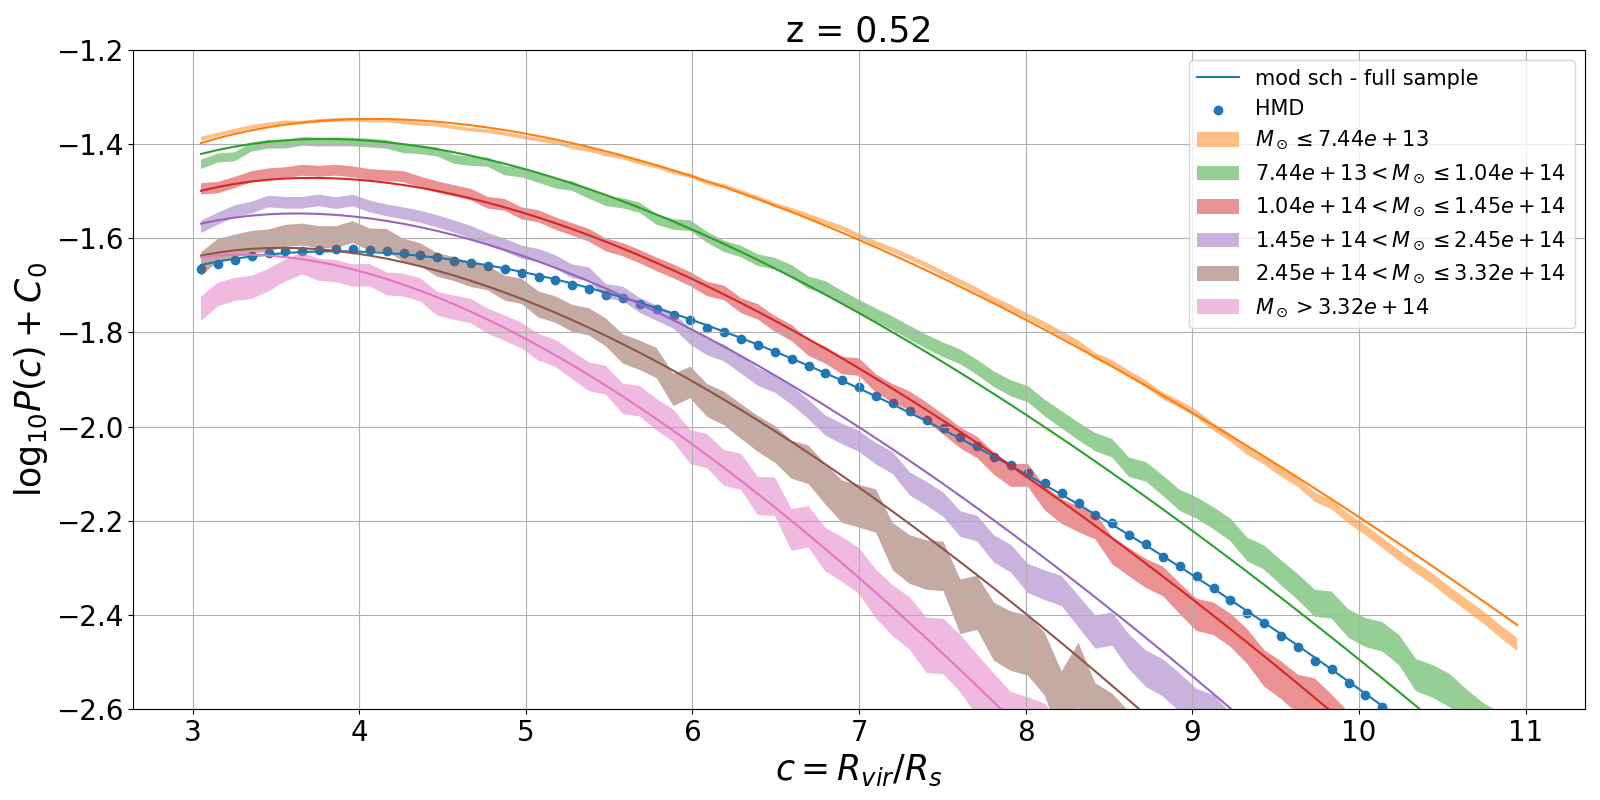
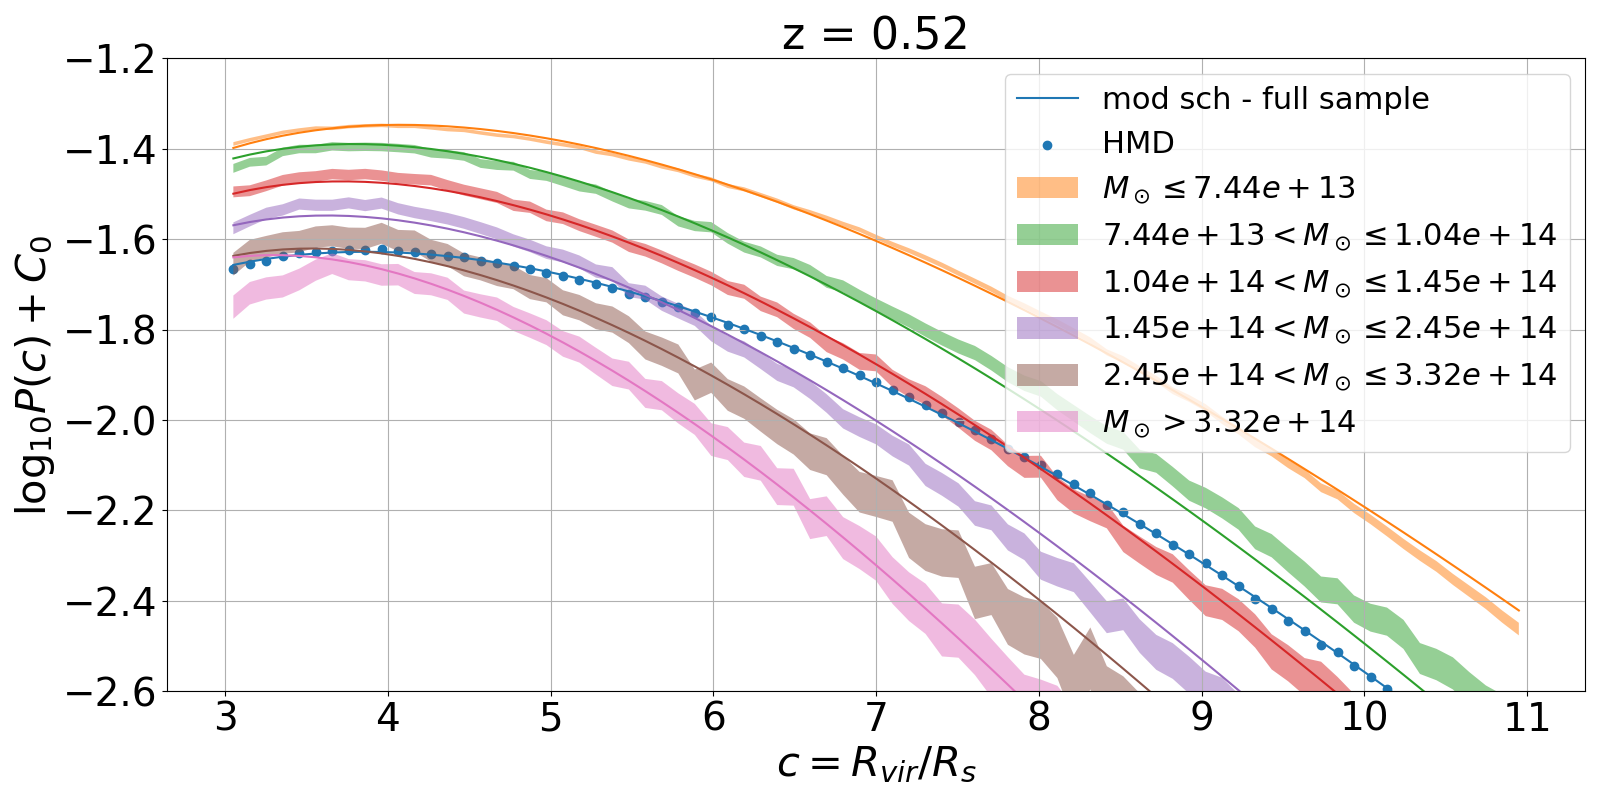
new figures for conc and xoff

diff --git a/physical/mean_relations/pdf_conc.py b/physical/mean_relations/pdf_conc.py
@@ -67,23 +67,12 @@ path_2_snapshot_data1_0 = np.array([os.path.join(dir_1_0,'distinct_1.0.fits'),os
 
 dir_0_4 = '/data17s/darksim/simulation_3/MD/MD_0.4Gpc/Mass_Xoff_Concentration'
 path_2_snapshot_data0_4 = os.path.join(dir_0_4,'distinct_1.0.fits')
-fig,ax = plt.subplots(1,2,figsize=(20,10))
-fig1,ax1 = plt.subplots(1,2,figsize=(20,10))
+
 zpl = np.array([1/1.0-1, 1/0.6565-1, 1/0.4922-1, 1/0.4123-1])
 colors = ['b','r','c','m']
 
 #define arrays used to cut data: low resolution of HMD or low statistic of MDPL 
 
-
-def lognormal(x, x0, sigma):
-    return np.log10(1/np.sqrt(2*np.pi*sigma**2)*np.exp(-(np.log10(x/x0))**2/(2*sigma**2)))
-
-def lognormallog(x, x0, sigma):
-    x=10**x
-    return np.log10(1/np.sqrt(2*np.pi*sigma**2)*np.exp(-(np.log10(x/x0))**2/(2*sigma**2)))
-
-def lognormalA(x, A, x0, sigma):
-    return A*np.exp(-(np.log10(x/x0))**2/(2*sigma**2))
 
 def modified_sch(x,A,alpha,beta,x0):
     f = (x/x0)**(alpha)*np.exp(-(x/x0)**beta)
@@ -116,7 +105,7 @@ def double_schechter(data,A,alpha0,beta0,x0,alpha1,beta1,y0,e0,e1,e2,e3,e4,e5,x1
 
 
 print('HMD')
-aexp = float(os.path.basename(path_2_snapshot_data[3][:-5]).split('_')[1])
+aexp = float(os.path.basename(path_2_snapshot_data[0][:-5]).split('_')[1])
 z_snap = 1/aexp -1
 print('z=%.3g'%(z_snap))
 cosmo = cosmology.setCosmology('multidark-planck')    
@@ -126,7 +115,7 @@ dc = peaks.collapseOverdensity(z = z_snap)
 rho_m = cosmo.rho_m(z=z_snap)*1e9
 h = cosmo.Hz(z=0)/100
 
-hd1 = fits.open(path_2_snapshot_data[3])
+hd1 = fits.open(path_2_snapshot_data[0])
 mass1=hd1[1].data['Mvir']
 logmass1 = np.log10(mass1)
 R_1 = peaks.lagrangianR(mass1)
@@ -144,10 +133,10 @@ print('max = ',max(log1_sigf_1))
 #sys.exit()
 print('computing spinparameter pdf...')
 
-#log1sig_intervals = [-0.15, -0.11,  -0.08, -0.01,  0.07, 0.20, 0.4]
+log1sig_intervals = [-0.15, -0.11,  -0.08, -0.01,  0.07, 0.20, 0.4]
 #log1sig_intervals = [-0.1, 0.08,  0.11, 0.14,  0.19, 0.22, 0.44]
 #log1sig_intervals = [-0.05, 0.13,  0.16, 0.2,  0.25, 0.28, 0.48]
-log1sig_intervals = [0.1, 0.18,  0.2, 0.23, 0.27, 0.3, 0.52]
+#log1sig_intervals = [0.1, 0.18,  0.2, 0.23, 0.27, 0.3, 0.52]
 sig_intervals = 1/(10**np.array(log1sig_intervals))
 sig_bins = (sig_intervals[1:] + sig_intervals[:-1])/2
 R_intervals = cosmo.sigma(sig_intervals, z=z_snap,inverse=True)
@@ -192,6 +181,16 @@ index_conc3 = (pdf_conc3 > -4)
 index_conc4 = (pdf_conc4 > -4)
 index_conc5 = (pdf_conc5 > -4)
 
+#fit pdf conc
+popt_conc, pcov_conc = curve_fit(modified_sch,bins_conc,pdf_conc,sigma=yerr_conc,p0=[(1,1.,1,1)],maxfev=1000000)#,maxfev=100000)#,p0=[(1e-3,4.,0.6,1e-3)])   
+print('popt_pdf conc = ', popt_conc)
+model_pdf_conc = modified_sch(bins_conc,*popt_conc)
+chi2conc = np.sum((pdf_conc-model_pdf_conc)**2/(yerr_conc)**2)
+dofconc = len(pdf_conc)-5
+print('chi2 conc = ',chi2conc)
+print('dof conc = ',dofconc)
+chi2rc=chi2conc/dofconc
+print('chi2r conc = ',chi2rc)
 
 
 #simulatenous fit of conc
@@ -230,21 +229,6 @@ tab_sch_conc_list.write(outschc_list,overwrite=True)
 
 plt.figure(figsize=(16,8))
 plt.plot(bins_conc,model_pdf_conc,label='mod sch - full sample')
-#plt.scatter(bins_conc,pdf_conc, label = r'HMD', ls ='None', marker='o')
-plt.fill_between(bins_conc,pdf_conc - yerr_conc,pdf_conc + yerr_conc, alpha=0.5, label = r'HMD')
-plt.tick_params(labelsize=20)
-plt.grid(True)
-plt.legend(fontsize=15)
-plt.xlabel(r'$c = R_{vir}/R_s$',fontsize=25)
-plt.ylabel(r'$P(c)$',fontsize=25)
-plt.title('z = %.3g'%(z_snap), fontsize=25)
-plt.tight_layout()
-outpl = os.path.join(this_dir,'figures','pdf_conc_HMD_z_%.3g.png'%(z_snap))
-os.makedirs(os.path.dirname(outpl), exist_ok=True)
-plt.savefig(outpl, overwrite=True)
-
-plt.figure(figsize=(16,8))
-plt.plot(bins_conc,model_pdf_conc,label='mod sch - full sample')
 plt.scatter(bins_conc,pdf_conc, label = r'HMD', ls ='None', marker='o')
 plt.fill_between(bins_conc,pdf_conc0-yerr_conc0+0.3,pdf_conc0+yerr_conc0+0.3, label = r'$M_\odot \leq %.3g$'%(M_intervals[1]), alpha=0.5)
 plt.plot(bins_conc,modified_sch_list([bins_conc,sig_bins[0]],*popt_pdf_conc_list)+0.3)
@@ -259,12 +243,12 @@ plt.plot(bins_conc,modified_sch_list([bins_conc,sig_bins[4]],*popt_pdf_conc_list
 plt.fill_between(bins_conc,pdf_conc5-yerr_conc5-0.2,pdf_conc5+yerr_conc5-0.2, label = r'$M_\odot > %.3g$'%(M_intervals[5]),alpha=0.5)
 plt.plot(bins_conc,modified_sch_list([bins_conc,sig_bins[5]],*popt_pdf_conc_list)-0.2)
 plt.ylim(bottom=-2.6,top=-1.2)
-plt.tick_params(labelsize=20)
+plt.tick_params(labelsize=28)
 plt.grid(True)
-plt.legend(fontsize=15)
-plt.xlabel(r'$c = R_{vir}/R_s$',fontsize=25)
-plt.ylabel(r'$\log_{10}P(c)+C_0$',fontsize=25)
-plt.title('z = 1.43', fontsize=25)
+plt.legend(fontsize=22)
+plt.xlabel(r'$c = R_{vir}/R_s$',fontsize=30)
+plt.ylabel(r'$\log_{10}P(c)+C_0$',fontsize=30)
+plt.title('z = 0.00', fontsize=32)
 plt.tight_layout()
 outpl = os.path.join(this_dir,'figures','pdf_conc_HMD_slices_z_%.3g.png'%(z_snap))
 os.makedirs(os.path.dirname(outpl), exist_ok=True)

diff --git a/physical/mean_relations/relations_conc.py b/physical/mean_relations/relations_conc.py
@@ -66,10 +66,9 @@ path_2_snapshot_data1_0 = np.array([os.path.join(dir_1_0,'distinct_1.0.fits'),os
 
 dir_0_4 = '/data17s/darksim/simulation_3/MD/MD_0.4Gpc/Mass_Xoff_Concentration'
 path_2_snapshot_data0_4 = os.path.join(dir_0_4,'distinct_1.0.fits')
+
 fig0,ax0 = plt.subplots(1,1,figsize=(10,10))
-fig1,ax1 = plt.subplots(1,1,figsize=(10,10))
-fig2,ax2 = plt.subplots(1,1,figsize=(10,10))
-fig3,ax3 = plt.subplots(1,1,figsize=(10,10))
+
 zpl = np.array([1/1.0-1, 1/0.6565-1, 1/0.4922-1, 1/0.4123-1])
 colors = ['b','r','c','m']
 
@@ -226,11 +225,11 @@ for i, p2s in enumerate(path_2_snapshot_data):
     peak_array_3 = np.array(peak_array[ind_three])
     z3_ = np.array(z3[ind_three])
 
-    ax0.scatter(peak_array_1,conc_av_1, label = r'$z= %.3g\ HMD$'%(z_snap), ls='None',c='%.c'%(colors[i]),marker='o',facecolors='none',s=18)
+    ax0.scatter(peak_array_1,conc_av_1, label = r'$z= %.3g\ HMD$'%(z_snap), ls='None',c='%.c'%(colors[i]),marker='o',facecolors='none',s=100)
 
-    ax0.scatter(peak_array_2,conc_av_2, label = r'$z= %.3g\ BigMD$'%(z_snap), ls='None', edgecolors='%.c'%(colors[i]), marker='^',facecolors='none',s=18)
+    ax0.scatter(peak_array_2,conc_av_2, label = r'$z= %.3g\ BigMD$'%(z_snap), ls='None', edgecolors='%.c'%(colors[i]), marker='^',facecolors='none',s=100)
 
-    ax0.scatter(peak_array_3,conc_av_3, label = r'$z= %.3g\ MDPL$'%(z_snap), ls ='None', edgecolors='%.c'%(colors[i]), marker='s',facecolors='none',s=18)
+    ax0.scatter(peak_array_3,conc_av_3, label = r'$z= %.3g\ MDPL$'%(z_snap), ls ='None', edgecolors='%.c'%(colors[i]), marker='s',facecolors='none',s=100)
     peak_array_ = np.hstack((peak_array_1,peak_array_2,peak_array_3))
     conc_av_ = np.hstack((conc_av_1,conc_av_2,conc_av_3))
     conc_err_ = np.hstack((conc_err_1,conc_err_2,conc_err_3))
@@ -320,8 +319,8 @@ def Xoff_log(x):
     y = 10**x
     return y/h
 
-ax0.set_ylabel(r'$conc$', fontsize=20)
-ax0.set_xlabel(r'$\nu = \delta_c/\sigma$', fontsize=20)
+ax0.set_ylabel(r'$conc$', fontsize=25)
+ax0.set_xlabel(r'$\nu = \delta_c/\sigma$', fontsize=25)
 ax0.grid(True)
 ax0.set_xscale('log')
 ax0.set_yscale('log')
@@ -333,8 +332,8 @@ ax0.xaxis.set_major_formatter(ScalarFormatter())
 ax0.yaxis.set_major_formatter(ScalarFormatter())
 ax0.ticklabel_format(axis='both', style='plain')
 
-ax0.legend(fontsize=12)
-ax0.tick_params(labelsize=15)
+ax0.legend(fontsize=16)
+ax0.tick_params(labelsize=20)
 fig0.tight_layout()
 outfi0 = os.path.join(this_dir,'figures','relation_c_sigma.png')
 os.makedirs(os.path.dirname(outfi0), exist_ok=True)

diff --git a/Rvir/xoff/xoff_sigma_relation_Rvir.py b/Rvir/xoff/xoff_sigma_relation_Rvir.py
@@ -246,11 +246,11 @@ for i, p2s in enumerate(path_2_snapshot_data):
     xoff_av_3 = np.array(xoff_av3[ind_three])
     xoff_err_3 = 0.1*xoff_av_3
 
-    ax1.scatter(peak_array_1,xoff_av_1, label = r'$z= %.3g\ HMD$'%(z_snap), ls='None',c='%.c'%(colors[i]),marker='o',facecolors='none',s=18)
+    ax1.scatter(peak_array_1,xoff_av_1, label = r'$z= %.3g\ HMD$'%(z_snap), ls='None',c='%.c'%(colors[i]),marker='o',facecolors='none',s=100)
 
-    ax1.scatter(peak_array_2,xoff_av_2, label = r'$z= %.3g\ BigMD$'%(z_snap), ls='None', edgecolors='%.c'%(colors[i]), marker='^',facecolors='none',s=18)
+    ax1.scatter(peak_array_2,xoff_av_2, label = r'$z= %.3g\ BigMD$'%(z_snap), ls='None', edgecolors='%.c'%(colors[i]), marker='^',facecolors='none',s=100)
 
-    ax1.scatter(peak_array_3,xoff_av_3, label = r'$z= %.3g\ MDPL$'%(z_snap), ls ='None', edgecolors='%.c'%(colors[i]), marker='s',facecolors='none',s=18)
+    ax1.scatter(peak_array_3,xoff_av_3, label = r'$z= %.3g\ MDPL$'%(z_snap), ls ='None', edgecolors='%.c'%(colors[i]), marker='s',facecolors='none',s=100)
 
 
     peak_array_ = np.hstack((peak_array_1,peak_array_2,peak_array_3))
@@ -363,11 +363,11 @@ ax1.ticklabel_format(axis='both', style='plain')
 
 #ax1_sec.ticklabel_format(axis='x', style='plain')
 #ax1_sec2.ticklabel_format(axis='y', style='plain')
-ax1.legend(fontsize=15)
-ax1.set_xlabel(r'$\nu = \delta_c/\sigma$', fontsize=20)
-ax1.set_ylabel(r'$\log_{10}X_{off}$', fontsize=20)
+ax1.legend(fontsize=20)
+ax1.set_xlabel(r'$\nu = \delta_c/\sigma$', fontsize=30)
+ax1.set_ylabel(r'$\log_{10}X_{off}$', fontsize=30)
 #ax1_sec2.set_ylabel(r'$X_{off}\ [kpc]$', fontsize=20, labelpad=15)
-ax1.tick_params(labelsize=15)
+ax1.tick_params(labelsize=25)
 #ax1_sec.tick_params(labelsize=15,labelleft=False,labelbottom=False,labelright=False)
 #ax1_sec2.tick_params(labelsize=15, labeltop = False, labelbottom = False, labelleft = False)
 ax1.grid(True)

diff --git a/physical/mean_relations/relations_xoff_simult.py b/physical/mean_relations/relations_xoff_simult.py
@@ -227,9 +227,9 @@ for i, p2s in enumerate(path_2_snapshot_data):
     z3_ = np.array(z3[ind_three])
     xoff_av_3 = np.array(xoff_av3[ind_three])
     xoff_err_3 = 0.1*xoff_av_3
-    ax1.scatter(peak_array_1,xoff_av_1, label = r'$z= %.3g\ HMD$'%(z_snap), ls='None',c='%.c'%(colors[i]),marker='o',facecolors='none',s=18)
-    ax1.scatter(peak_array_2,xoff_av_2, label = r'$z= %.3g\ BigMD$'%(z_snap), ls='None', edgecolors='%.c'%(colors[i]), marker='^',facecolors='none',s=18)
-    ax1.scatter(peak_array_3,xoff_av_3, label = r'$z= %.3g\ MDPL$'%(z_snap), ls ='None', edgecolors='%.c'%(colors[i]), marker='s',facecolors='none',s=18)
+    ax1.scatter(peak_array_1,xoff_av_1, label = r'$z= %.3g\ HMD$'%(z_snap), ls='None',c='%.c'%(colors[i]),marker='o',facecolors='none',s=100)
+    ax1.scatter(peak_array_2,xoff_av_2, label = r'$z= %.3g\ BigMD$'%(z_snap), ls='None', edgecolors='%.c'%(colors[i]), marker='^',facecolors='none',s=100)
+    ax1.scatter(peak_array_3,xoff_av_3, label = r'$z= %.3g\ MDPL$'%(z_snap), ls ='None', edgecolors='%.c'%(colors[i]), marker='s',facecolors='none',s=100)
 
     peak_array_ = np.hstack((peak_array_1,peak_array_2,peak_array_3))
     xoff_av_ = np.hstack((xoff_av_1,xoff_av_2,xoff_av_3))
@@ -295,10 +295,10 @@ ax1.xaxis.set_major_formatter(ScalarFormatter())
 ax1.yaxis.set_major_formatter(ScalarFormatter())
 ax1.ticklabel_format(axis='both', style='plain')
 
-ax1.legend(fontsize=15)
-ax1.set_xlabel(r'$\nu = \delta_c/\sigma$', fontsize=20)
-ax1.set_ylabel(r'$\log_{10}X_{off,P}$', fontsize=20)
-ax1.tick_params(labelsize=15)
+ax1.legend(fontsize=20)
+ax1.set_xlabel(r'$\nu = \delta_c/\sigma$', fontsize=30)
+ax1.set_ylabel(r'$\log_{10}X_{off,P}$', fontsize=30)
+ax1.tick_params(labelsize=23)
 ax1.grid(True)
 fig1.tight_layout()
 outfi1 = os.path.join(this_dir,'figures','relation_xoff_sigma.png')
